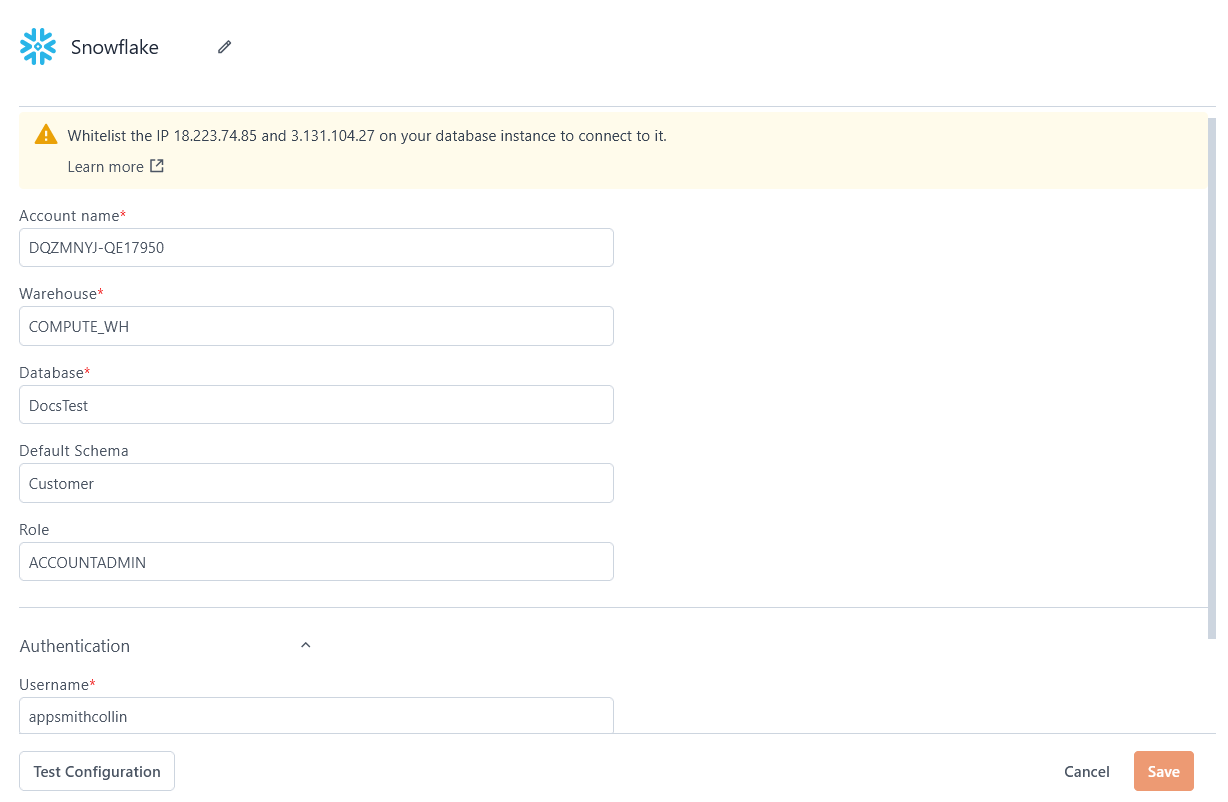
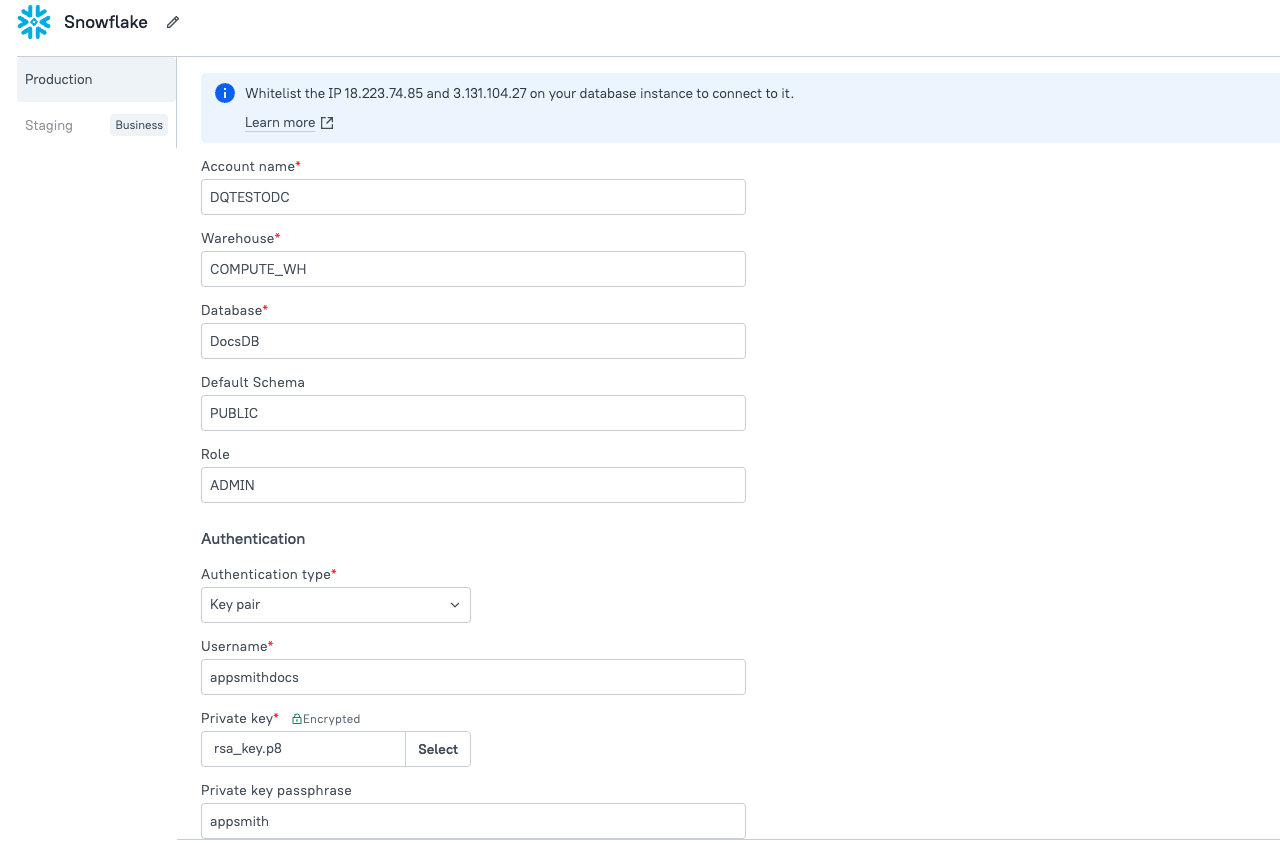
feat: Snowflake Key Pair auth

diff --git a/website/docs/connect-data/reference/querying-snowflake-db.md b/website/docs/connect-data/reference/querying-snowflake-db.md
@@ -74,13 +74,34 @@ The role to use for performing queries. For example, `ACCOUNTADMIN`
 
 </dd>
 
-#### Username
+### Authentication type
 
-<dd>The username for your Snowflake account.</dd>
+#### Basic
 
-#### Password
+Basic authentication is a straightforward method that uses a username and password to authenticate users to Snowflake.
 
-<dd>The password for your Snowflake account.</dd>
+
+* **Username** - The username is the unique identifier for your Snowflake account. It is typically assigned by your Snowflake administrator or created when you set up your Snowflake account. You can find your username in your Snowflake account settings. 
+
+* **Password** - The password is the secret string of characters used in combination with your username to authenticate your identity to Snowflake. You can find your password in your Snowflake account settings.
+
+
+#### Key Pair
+
+Key Pair authentication is a secure method that uses a pair of cryptographic keys for authentication, providing enhanced security.
+
+
+ * **Username** - The username is the unique identifier for your Snowflake account. It is typically assigned by your Snowflake administrator or created when you set up your Snowflake account. You can find your username in your Snowflake account settings. 
+
+ * **Private key**: The private key is a confidential cryptographic key used to sign authentication requests. It is generated during the key pair creation process and should be kept secure and encrypted. You can upload the private key file from your local machine, such as `~/.ssh/snowflake_rsa_key`.
+
+* **Private key passphrase:** The private key passphrase is an optional password that you set when generating the private key. It adds an extra layer of security by encrypting the private key file. You can set the passphrase during the key generation process using `ssh-keygen`.
+
+<dd>
+
+For more information, see [Key-pair authentication](https://docs.snowflake.com/en/user-guide/key-pair-auth).
+
+</dd>
 
 ## Query Snowflake
 
